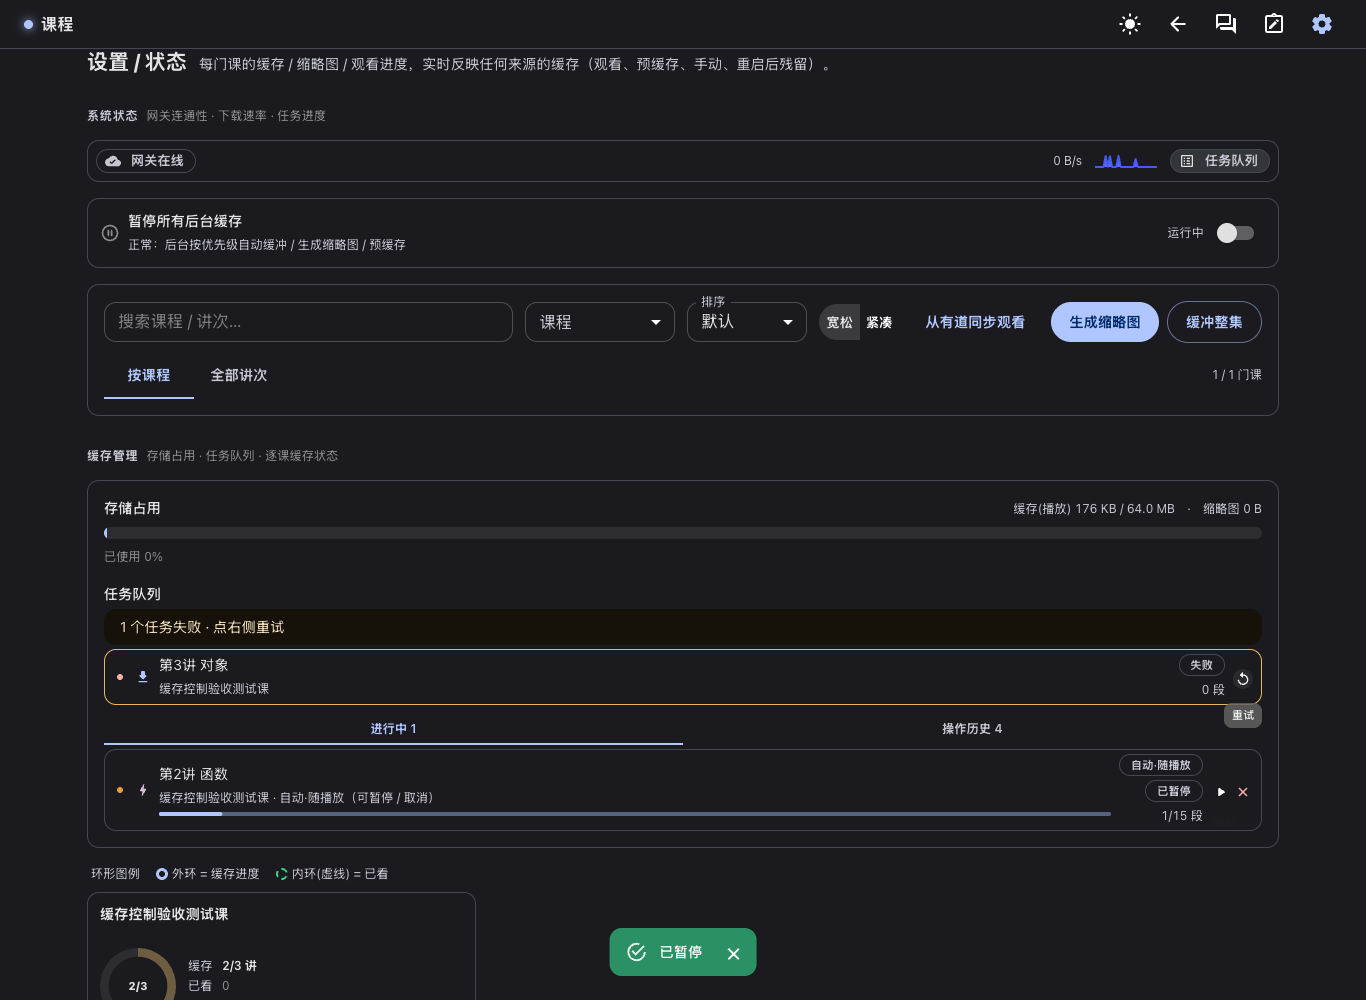
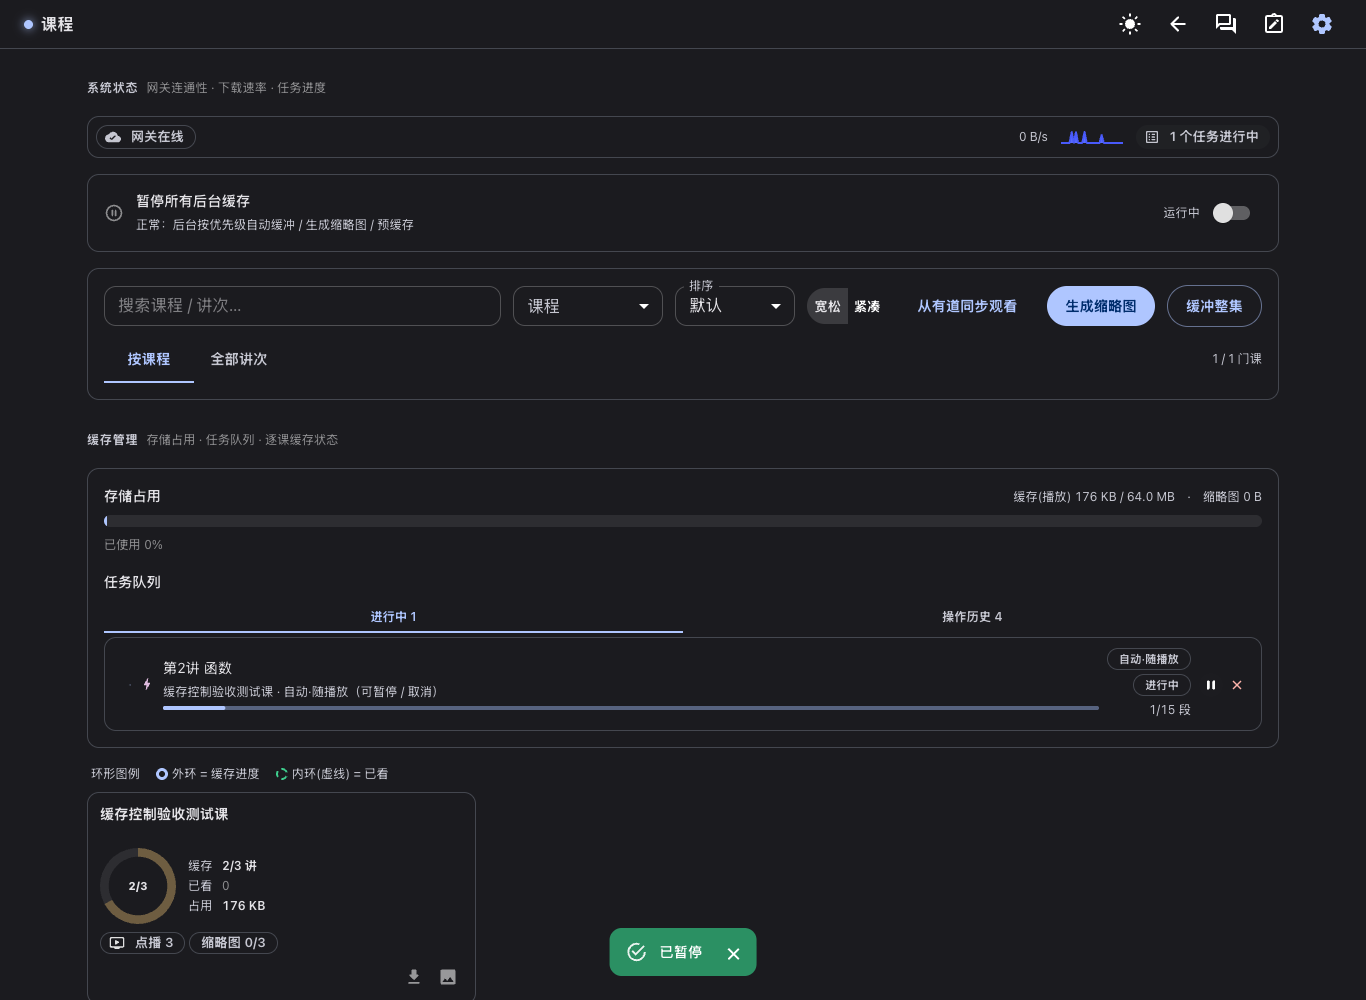
fix(cache): dismiss/clear for stuck failed tasks + systematic settings spacing
- gateway: new 'dismiss' verb (buffer/thumb error state) removes the job from
  buf_jobs/buf_state/buf_errors (or thumb meta) + emits a terminal event, so
  unrecoverable/junk failed tasks (e.g. dead-src e2e stubs like 777000333) can
  leave the list — retry could never fix a 404 src. Allowed through the action
  dispatch whitelist; uniform {ok,state,reason}.
- web: failed-task row gains a 清除 button next to 重试 (TaskVerb 'dismiss',
  VERB_DONE/VERB_BTN/availableVerbs), handleTaskAction toast 已清除.
- spacing: 10 fixes to the 8px scale — uniform SectionHeader rhythm (mb 1->1.5),
  bg-pause card padding matched (p 1.5->2), failed banner/rows/list given real
  vertical padding, task rows un-cramped (py/px 0.5 -> 0.75/1), bigger action
  buttons (p 0.25->0.5), unified toolbar gaps.
- thumbnail stays cancel/retry (atomic ffmpeg) per owner; per-task pause/resume
  already covers buffer+prefetch.
- e2e: drive.mjs gains a dismiss step (induce 404 fail -> 清除 -> row gone +
  gateway error cleared). 27/27 assertions, screenshots refreshed.

diff --git a/web/src/components/settings/TaskRow.tsx b/web/src/components/settings/TaskRow.tsx
@@ -8,6 +8,7 @@ import PauseRoundedIcon from "@mui/icons-material/PauseRounded";
 import PlayArrowRoundedIcon from "@mui/icons-material/PlayArrowRounded";
 import ReplayRoundedIcon from "@mui/icons-material/ReplayRounded";
 import CloseRoundedIcon from "@mui/icons-material/CloseRounded";
+import DeleteOutlineRoundedIcon from "@mui/icons-material/DeleteOutlineRounded";
 import type { TaskItem, TaskState, TaskVerb } from "@/types/api";
 
 export const KIND = {
@@ -39,12 +40,12 @@ export function availableVerbs(kind: TaskItem["kind"], state: TaskState): TaskVe
     if (state === "working") return ["pause", "cancel"];
     if (state === "paused") return ["resume", "cancel"];
     if (state === "queued") return ["cancel"];
-    if (state === "error") return ["retry"];
+    if (state === "error") return ["retry", "dismiss"];
     return [];
   }
   // thumb
   if (state === "working" || state === "queued") return ["cancel"];
-  if (state === "error") return ["retry"];
+  if (state === "error") return ["retry", "dismiss"];
   return [];
 }
 
@@ -63,6 +64,7 @@ const VERB_BTN: Record<TaskVerb, { title: string; Icon: typeof PauseRoundedIcon;
   resume: { title: "继续", Icon: PlayArrowRoundedIcon },
   retry: { title: "重试", Icon: ReplayRoundedIcon },
   cancel: { title: "取消", Icon: CloseRoundedIcon, color: "error" },
+  dismiss: { title: "清除（从失败列表移除）", Icon: DeleteOutlineRoundedIcon, color: "error" },
 };
 
 // 历史时间线时间戳格式化:今天显示 HH:mm,跨天显示 MM-DD HH:mm(本地时间)。
@@ -113,7 +115,7 @@ function TaskRow({
     st === "paused" ? "warning.main" : st === "error" ? "error.main" : st === "done" ? "success.main" : "text.disabled";
 
   return (
-    <Box sx={{ display: "flex", alignItems: "center", gap: 1, py: 0.5, px: 0.5 }}>
+    <Box sx={{ display: "flex", alignItems: "center", gap: 1, py: 0.75, px: 1 }}>
       {/* 状态指示：进行中转圈，其余用对应颜色的点 */}
       {working ? (
         <CircularProgress size={14} thickness={6} />
@@ -177,7 +179,7 @@ function TaskRow({
                     color={b.color}
                     disabled={busy}
                     onClick={() => onAction?.(v)}
-                    sx={{ p: 0.25 }}
+                    sx={{ p: 0.5 }}
                     aria-label={aria}
                   >
                     <b.Icon sx={{ fontSize: 16 }} />

diff --git a/web/src/components/settings/TaskQueuePanel.tsx b/web/src/components/settings/TaskQueuePanel.tsx
@@ -71,13 +71,13 @@ function TaskQueuePanel({
 
   return (
     <Box sx={{ display: "flex", flexDirection: "column", minHeight: 0 }}>
-      <Typography variant="subtitle2" sx={{ mb: 0.5 }}>任务队列</Typography>
+      <Typography variant="subtitle2" sx={{ mb: 1 }}>任务队列</Typography>
 
       {/* 失败区：有失败任务时直接把可重试的失败行内联到面板最顶（不再只给数字横幅 + 埋进全屏）。
           每行带「重试」按钮，用户在第一眼能看到的地方就能直接重试。多于上限时折叠到全屏。 */}
       {failedTasks.length > 0 && (
         <Box sx={{ mb: 1 }}>
-          <Alert severity="warning" sx={{ py: 0, mb: 0.5, alignItems: "center" }} icon={false}>
+          <Alert severity="warning" sx={{ py: 0.75, mb: 0.75, alignItems: "center" }} icon={false}>
             {failedTasks.length} 个任务失败 · 点右侧重试
           </Alert>
           <Box
@@ -85,6 +85,7 @@ function TaskQueuePanel({
               border: (t) => `1px solid ${t.palette.warning.light}`,
               borderRadius: (t) => t.radius.md,
               px: 0.5,
+              py: 0.25,
               bgcolor: (t) => t.palette.warning.light + "14", // 极淡警示底色
             }}
           >
@@ -144,6 +145,7 @@ function TaskQueuePanel({
           border: (t) => `1px solid ${t.palette.divider}`,
           borderRadius: (t) => t.radius.md,
           px: 0.5,
+          py: 0.5,
         }}
       >
         {display.length === 0 ? (
@@ -175,7 +177,7 @@ function TaskQueuePanel({
       </Box>
 
       {(queue.thumb > 0 || queue.buffer > 0) && (
-        <Typography variant="caption" color="text.secondary" sx={{ mt: 0.5, fontVariantNumeric: "tabular-nums" }}>
+        <Typography variant="caption" color="text.secondary" sx={{ mt: 1, fontVariantNumeric: "tabular-nums" }}>
           队列深度：缓冲 {queue.buffer} · 缩略图 {queue.thumb}
         </Typography>
       )}

diff --git a/web/src/components/settings/SettingsView.tsx b/web/src/components/settings/SettingsView.tsx
@@ -40,6 +40,7 @@ const VERB_DONE: Record<TaskVerb, string> = {
   resume: "已继续",
   cancel: "已取消",
   retry: "已重试",
+  dismiss: "已清除",
 };
 
 // 缩略图源：点播取最低清晰度（解码更快）；直播回放无清晰度档 → 回退到 m3u8 (即 downloadUrl)。
@@ -313,7 +314,7 @@ export default function SettingsView() {
       />
 
       {/* 全局后台缓存开关：一处暂停 buffer/thumb/prefetch 三 worker（网关持久化、跨重启保留）。 */}
-      <Card sx={{ p: 1.5, mb: 2, display: "flex", alignItems: "center", flexWrap: "wrap", gap: 1 }}>
+      <Card sx={{ p: 2, mb: 2, display: "flex", alignItems: "center", flexWrap: "wrap", gap: 1.5 }}>
         <PauseCircleOutlineRoundedIcon
           sx={{ fontSize: 20, color: bgPaused ? "warning.main" : "text.disabled" }}
         />
@@ -385,7 +386,7 @@ export default function SettingsView() {
               </TextField>
             </>
           )}
-          <Stack direction="row" sx={{ ml: { md: "auto" }, flexWrap: "wrap", gap: 1, alignItems: "center" }}>
+          <Stack direction="row" sx={{ ml: { md: "auto" }, flexWrap: "wrap", gap: 1.5, alignItems: "center" }}>
             <ToggleButtonGroup
               size="small"
               exclusive

diff --git a/web/src/types/api.ts b/web/src/types/api.ts
@@ -165,8 +165,9 @@ export interface CourseStatus {
 }
 // 任务在面板里的呈现态：进行中(working/queued/paused) / 已完成(done/cancelled) / 失败(error)。
 export type TaskState = "working" | "queued" | "paused" | "done" | "cancelled" | "error";
-// 可对任务执行的操作。buffer/thumb 支持全部；prefetch（自动·随播放）支持 pause|resume|cancel（不支持 retry）。
-export type TaskVerb = "pause" | "resume" | "cancel" | "retry";
+// 可对任务执行的操作。dismiss=清除失败任务（仅 error 态，从列表彻底移除死链/脏数据）。
+// prefetch（自动·随播放）支持 pause|resume|cancel（不支持 retry/dismiss）。
+export type TaskVerb = "pause" | "resume" | "cancel" | "retry" | "dismiss";
 
 export interface TaskItem {
   vid: number;

diff --git a/web/src/components/settings/SectionHeader.tsx b/web/src/components/settings/SectionHeader.tsx
@@ -5,7 +5,7 @@ import { Box, Typography } from "@mui/material";
 // 设置页 IA 分区标题：系统状态 / 缓存管理 / 其他设置。带可选副标题。
 function SectionHeader({ title, hint }: { title: string; hint?: string }) {
   return (
-    <Box sx={{ mt: 3, mb: 1, display: "flex", alignItems: "baseline", gap: 1, flexWrap: "wrap" }}>
+    <Box sx={{ mt: 3, mb: 1.5, display: "flex", alignItems: "baseline", gap: 1, flexWrap: "wrap" }}>
       <Typography variant="overline" sx={{ fontWeight: 700, letterSpacing: 0.6, color: "text.secondary" }}>
         {title}
       </Typography>

diff --git a/ydcore/gateway.py b/ydcore/gateway.py
@@ -1576,6 +1576,15 @@ class Gateway:
                     self.buf_state[vid] = "queued"
                     self._last_buf_error.pop(vid, None)
                     requeue = job
+            elif verb == "dismiss":
+                # 失败任务清除: 仅 error 态可清除。删除状态/任务/错误并发终态事件,
+                # UI 失败区随即移除该行(无法重试的死链/脏数据靠它彻底清掉,不再永久卡列表)。
+                ok = st == "error"
+                if ok:
+                    self.buf_state.pop(vid, None)
+                    self.buf_jobs.pop(vid, None)
+                    self._last_buf_error.pop(vid, None)
+                    self._emit_task_event("buffer", vid, "cancelled", "已清除")
             else:
                 return {"ok": False, "vid": vid, "kind": "buffer", "state": st, "reason": "bad verb"}
             new_state = self.buf_state.get(vid)
@@ -1608,6 +1617,14 @@ class Gateway:
                     self.thumb_meta[vid] = {"state": "gen", "started_ts": time.time()}
                     self.thumb_session.add(vid)  # 重试也是"本会话任务",否则 UI 会把它从本会话列表丢掉
                     requeue = job
+            elif verb == "dismiss":
+                # 失败任务清除: 仅 error 态可清除(对称 buffer)。删除元数据/任务并发终态事件。
+                ok = st == "error"
+                if ok:
+                    self.thumb_meta.pop(vid, None)
+                    self.thumb_jobs.pop(vid, None)
+                    self.thumb_session.discard(vid)
+                    self._emit_task_event("thumb", vid, "cancelled", "已清除")
             else:
                 return {"ok": False, "vid": vid, "kind": "thumb", "state": st, "reason": "bad verb"}
             new_state = (self.thumb_meta.get(vid) or {}).get("state")
@@ -2143,7 +2160,7 @@ def make_handler(gateway):
             verb = payload.get("verb")
             kind = payload.get("kind")
             vid = str(payload.get("vid") or "")
-            if not vid or verb not in ("pause", "resume", "cancel", "retry"):
+            if not vid or verb not in ("pause", "resume", "cancel", "retry", "dismiss"):
                 self._send_json({"error": "bad params"}, 400)
                 return
             if kind == "buffer":
